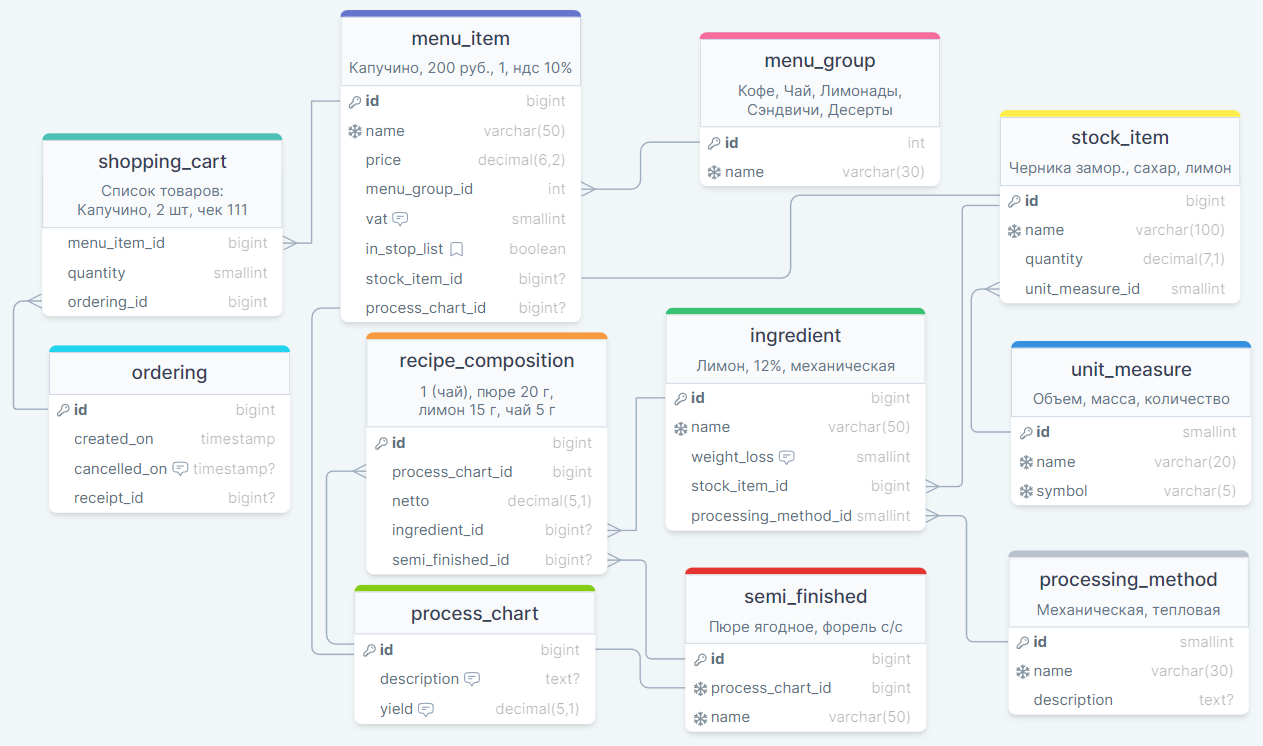
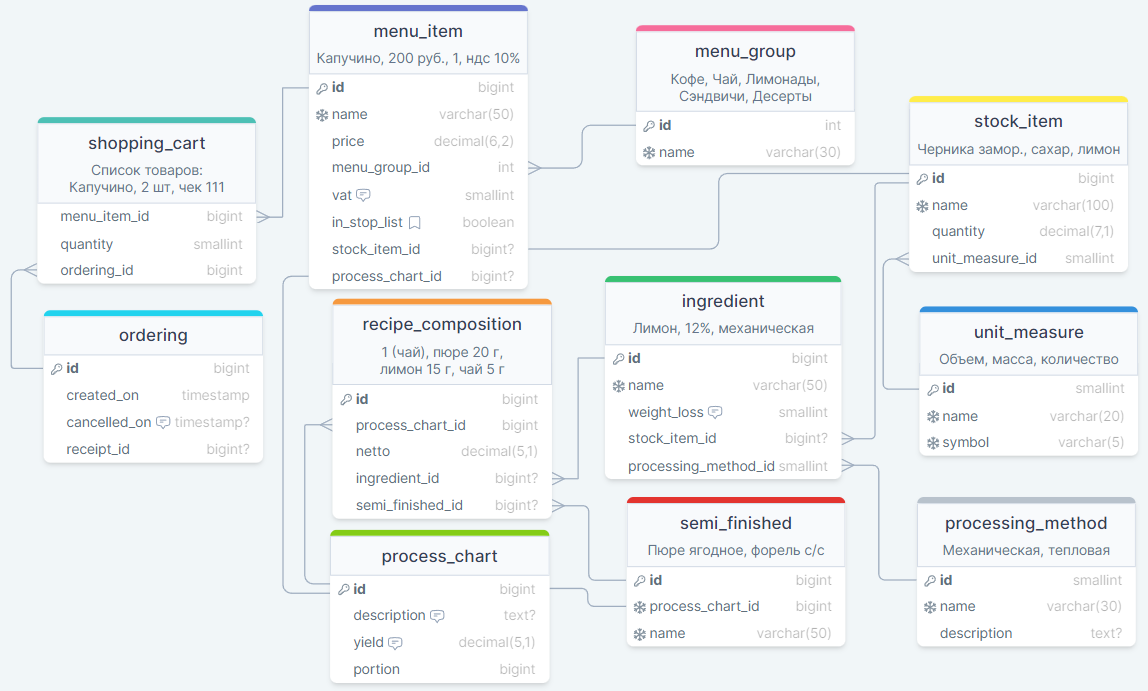
add import.sql file with init data and some changes in outlet models

diff --git a/outlet/src/main/java/com/kirin/outlet/model/RecipeComposition.java b/outlet/src/main/java/com/kirin/outlet/model/RecipeComposition.java
@@ -20,7 +20,7 @@ public class RecipeComposition {
     private Long id;
 
     /**
-     * Норма расхода продукта в граммах
+     * Норма расхода продукта в граммах или штуках (для штучных позиций на складе)
      */
     @Column(nullable = false, columnDefinition = "decimal(5,1)")
     private BigDecimal netto;
@@ -36,22 +36,22 @@ public class RecipeComposition {
 
     /**
      * Ингредиент (опционально).
-     * Однонаправленная связь OneToOne с сущностью ингредиента.
+     * Однонаправленная связь ManyToOne с сущностью ингредиента.
      * Значения могут повторяться. Если сущность рецептурного компонента
      * связана с полуфабрикатом, то данная связь должна быть null.
      */
-    @OneToOne(fetch = FetchType.LAZY) // optional = true
+    @ManyToOne(fetch = FetchType.LAZY) // optional = true
     @JoinColumn(name = "ingredient_id",
             foreignKey = @ForeignKey(name = "recipe_composition_iid_fk"))
     private Ingredient ingredient;
 
     /**
      * Полуфабриакат (опционально).
-     * Однонаправленная связь OneToOne с сущностью полуфабриката.
+     * Однонаправленная связь ManyToOne с сущностью полуфабриката.
      * Значения могут повторяться. Если сущность рецептурного компонента
      * связана с ингредиентом, то данная связь должна быть null.
      */
-    @OneToOne(fetch = FetchType.LAZY) // optional = true
+    @ManyToOne(fetch = FetchType.LAZY) // optional = true
     @JoinColumn(name = "semi_finished_id",
             foreignKey = @ForeignKey(name = "recipe_composition_sfid_fk"))
     private SemiFinished semiFinished;

diff --git a/outlet/src/main/java/com/kirin/outlet/model/MenuItem.java b/outlet/src/main/java/com/kirin/outlet/model/MenuItem.java
@@ -2,6 +2,7 @@ package com.kirin.outlet.model;
 
 import jakarta.persistence.*;
 import lombok.Data;
+import org.hibernate.annotations.ColumnDefault;
 
 import java.math.BigDecimal;
 
@@ -32,16 +33,18 @@ public class MenuItem {
     private BigDecimal price;
 
     /**
-     * НДС в %
+     * НДС в %. По умолчанию 10%
      */
+    @ColumnDefault(value = "10")
     @Column(nullable = false, columnDefinition = "tinyint")
     private Integer vat;
 
     /**
      * Добавлена ли позиция в стоп-лист. По умолчанию false
      */
+    @ColumnDefault(value = "false")
     @Column(nullable = false)
-    private Boolean inStopList = false;
+    private Boolean inStopList;
 
     /**
      * Группа меню. Однонаправленная связь ManyToOne с сущностью группы меню.
@@ -49,7 +52,6 @@ public class MenuItem {
     @ManyToOne(fetch = FetchType.LAZY, optional = false)
     @JoinColumn(name = "menu_group_id", nullable = false,
             foreignKey = @ForeignKey(name = "menu_item_mgid_fk"))
-    // @JsonIgnore
     private MenuGroup menuGroup;
 
     /**

diff --git a/outlet/src/main/java/com/kirin/outlet/model/ProcessChart.java b/outlet/src/main/java/com/kirin/outlet/model/ProcessChart.java
@@ -7,6 +7,7 @@ import jakarta.persistence.GenerationType;
 import jakarta.persistence.Id;
 import jakarta.persistence.OneToMany;
 import lombok.Data;
+import org.hibernate.annotations.ColumnDefault;
 
 import java.math.BigDecimal;
 import java.util.Set;
@@ -36,6 +37,13 @@ public class ProcessChart {
      */
     @Column(nullable = false, columnDefinition = "decimal(5,1)")
     private BigDecimal yield;
+
+    /**
+     * На сколько порций рассчитана техкарта, по умолчанию 1
+     */
+    @ColumnDefault(value = "1")
+    @Column(nullable = false, columnDefinition = "tinyint")
+    private Integer portion;
 
     /**
      * Список рецептурных компонентов. Двунаправленная связь OneToMany для получения списка

diff --git a/outlet/src/main/java/com/kirin/outlet/model/Ingredient.java b/outlet/src/main/java/com/kirin/outlet/model/Ingredient.java
@@ -31,10 +31,10 @@ public class Ingredient {
 
     /**
      * Позиция на складе. Однонаправленная связь ManyToOne с сущностью склада.
+     * Может быть null у ингредиентов с неучитываемым расходом, например, вода, лед.
      */
-    @ManyToOne(fetch = FetchType.LAZY, optional = false)
-    @JoinColumn(name = "stock_item_id", nullable = false,
-            foreignKey = @ForeignKey(name = "ingredient_siid_fk"))
+    @ManyToOne(fetch = FetchType.LAZY)
+    @JoinColumn(name = "stock_item_id", foreignKey = @ForeignKey(name = "ingredient_siid_fk"))
     private StockItem stockItem;
 
     /**

diff --git a/outlet/src/main/java/com/kirin/outlet/model/Ordering.java b/outlet/src/main/java/com/kirin/outlet/model/Ordering.java
@@ -37,7 +37,7 @@ public class Ordering {
     private Timestamp cancelledOn;
 
     /**
-     * Уникальный идентификатор чека, сформированного в другом сервисе
+     * Уникальный идентификатор чека, сформированного в другом сервисе, может быть null
      */
     private Long receiptId;
 
